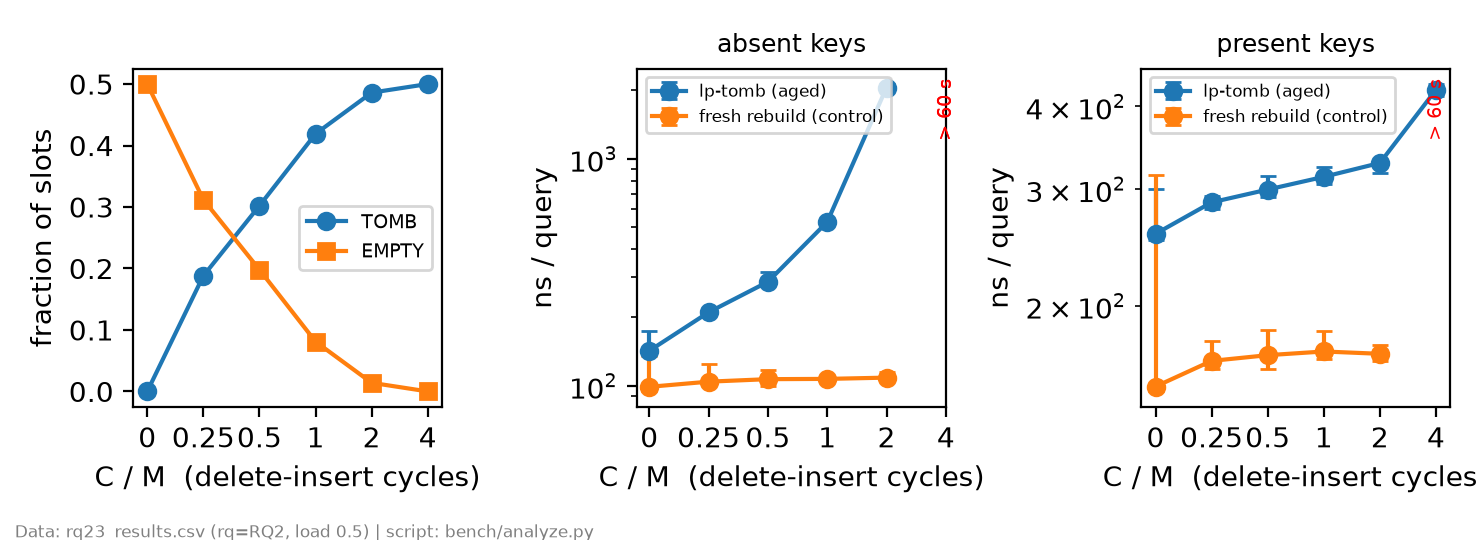
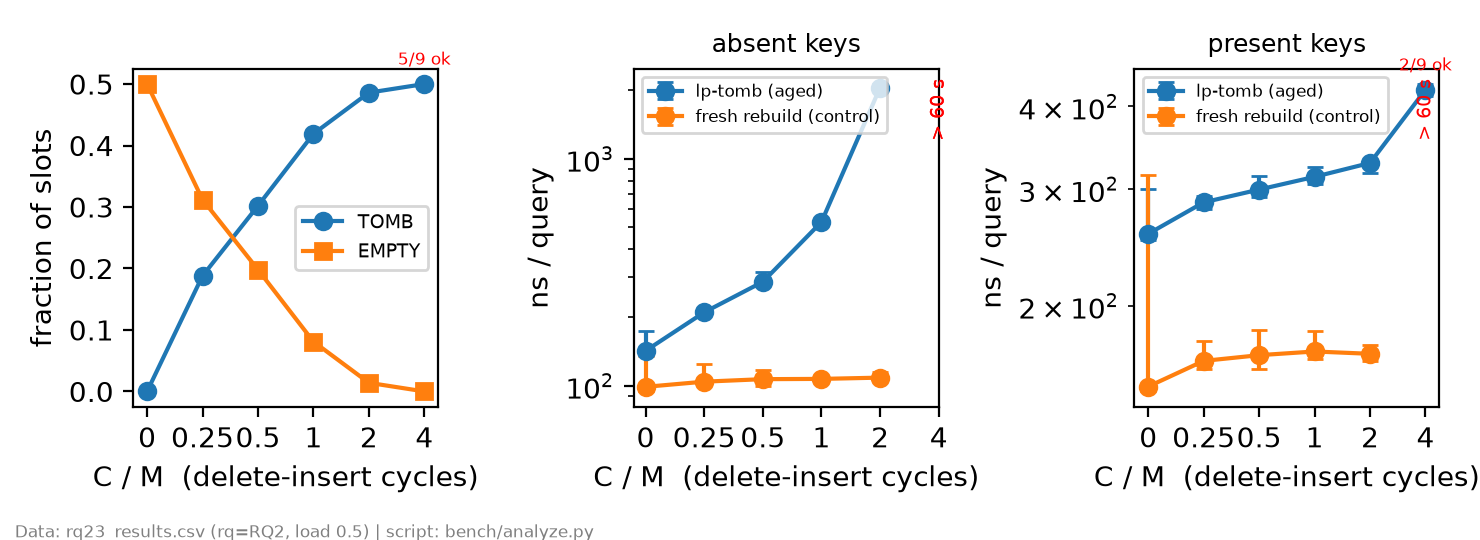
Mô tả ngắn gọn về các cập nhật vừa làm

diff --git a/bench/analyze.py b/bench/analyze.py
@@ -153,7 +153,18 @@ def draw(ax, rows, xkey, label):
         lo = [r["ns_med"] - r["ns_min"] for r in pts]
         hi = [r["ns_max"] - r["ns_med"] for r in pts]
         ax.errorbar(x, y, yerr=[lo, hi], marker="o", capsize=3, label=label)
+    note_partial(ax, pts, xkey, "ns_med")
     mark_timeouts(ax, rows, xkey)
+
+
+def note_partial(ax, rows, xkey, ykey):
+    """Nhom co ca dong ok lan timeout: median chi tinh tren cac luot da xong,
+    nen ghi ro 'k/N ok' de khong bi hieu la du 9 luot."""
+    for r in rows:
+        if r["n_timeout"] > 0 and 0 < r["n_ok"] < r["runs"] and r[ykey] is not None:
+            ax.annotate("%d/%d ok" % (r["n_ok"], r["runs"]), (r[xkey], r[ykey]),
+                        textcoords="offset points", xytext=(0, 7), ha="center",
+                        fontsize=6, color="red")
 
 
 def mark_timeouts(ax, rows, xkey):
@@ -234,6 +245,7 @@ def fig_rq2(S):
                 key=lambda r: r["xi"])
     ax.plot([r["xi"] for r in wl], [r["tomb"] for r in wl], "o-", label="TOMB")
     ax.plot([r["xi"] for r in wl], [r["empty"] for r in wl], "s-", label="EMPTY")
+    note_partial(ax, wl, "xi", "tomb")
     mark_timeouts(ax, [r for r in t if r["phase"] == "workload"], "xi")
     ax.set_ylabel("fraction of slots")
     ax.legend(fontsize=7)
@@ -268,6 +280,9 @@ def grouped_bars(ax, S3, loads_val, cs, labels, field, scale=1.0):
                             ha="center", va="bottom", color="red", rotation=90, fontsize=6)
                 continue
             ax.bar(x, v * scale, w, color="C%d" % i, label=lab if j == 0 else None)
+            if r["n_timeout"] > 0 and 0 < r["n_ok"] < r["runs"]:
+                ax.text(x, v * scale, "%d/%d" % (r["n_ok"], r["runs"]), ha="center",
+                        va="bottom", fontsize=6, color="red")
     ax.set_xticks(range(len(cs)))
     ax.set_xticklabels(["%g" % (c / M20) for c in cs])
     ax.set_xlabel("C / M")
